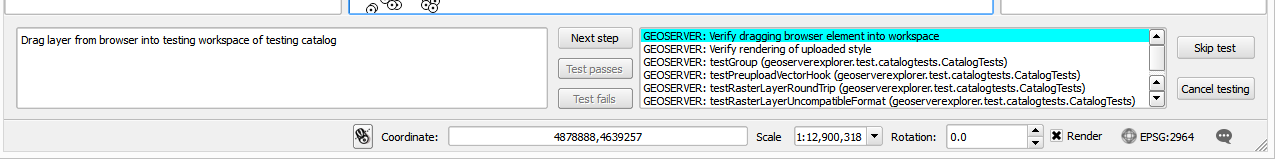
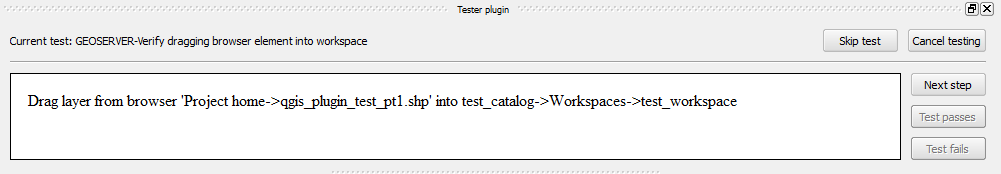
doc update

Changed region(s): [[0.0, 0.0, 1.0, 1.0], [0.3407, 0.7799, 0.5884, 0.805], [0.6194, 0.7799, 0.7123, 0.805]]

diff --git a/doc/usage.rst b/doc/usage.rst
@@ -17,26 +17,21 @@ A window will be shown with the available tests grouped in categories.
 
 Select the tests that you want to be executed and then click on run
 
-In the lower part of the QGIS window you will see the testing panel.
+In the upper part of the QGIS window you will see the testing panel.
 
-.. image:: testpanel.png
+.. image:: testpanel_upload_dragdrop.png
 	:align: center
 
-It has two parts: 
-
-* The right one contains a list of all the test to be run. The current test being executed is highlighted in blue. Tests that have already been executed are shown in red (if they failed), green (if they passed) or grey (if they were skipped)
-
-* The left one contains a description of the current step in the current test. If the step is automated (that is, if no user interaction is expected during this step), the panel in the left part is disabled. Otherwise, the panel will show a description of the task that the test expects you to perform.
+It has a single panel with a description of the current step in the current test. If the step is automated (that is, if no user interaction is expected during this step), the panel is disabled. Otherwise, the panel will show a description of the task that the test expects you to perform.
 
 
-All tests selected in the test selection dialog will be run sequentially. Tests can be of two types: automated and semi-automated. Each of them is described in the next sections, with indication about how to run the test in each case.
+All tests selected in the test selection dialog will be run sequentially. Tests can be of two types: automated and semi-automated. Each of them is described in the next sections, with indications about how to run the test in each case.
 
 Automated tests
 ----------------
 
 Automated tests have no user interaction. The tester plugin will take care of running the test and checking that the conditions defined to pass the test are met.
 
-Once the test has finished running, the plugin will set up the color of the test accordingly to indicate whether it passed or not, and start running the next test.
 
 
 Semi-automated tests
@@ -54,7 +49,7 @@ Here are a couple examples of suchs test, to help understand how the user should
 
 The two first steps are automated, so the user doesnt have to do anything. At the end of those steps, the project will have a vector layer with a symbology stored in the project, and a WMS layer with a symbology that is used client side.
 
-The thrid step is manual, and the test panel will show something like this.
+The third step is manual, and the test panel will show something like this.
 
 .. image:: testpanel_verify_rendering.png
 	:align: center
@@ -78,6 +73,8 @@ This is not the final step, so the "Test passes" and "Test fails" buttons are di
 
 The last step is automated. The plugin will decide if the test passes or not, by checking the layers in the catalog. The user interaction is not needed for that. Once checked, the plugin will move to the next test.
 
+Some tests might contain intermedate manual steps where something is to be verified by the user. In this case, the "Test passes" and "Test fails" button will be renamed to "Step passes" and "Step fails" and will be enabled. The "Next step" button will be disabled.
+
 Test report
 #############
 
@@ -90,3 +87,5 @@ For those tests that have not passed correctly (displayed in red), you can click
 
 .. image:: testresulttrace.png
 	:align: center
+
+Right-clicking on the test name in the list will open a context menu with a single menu entry: "Open issue page". Select it to open the corresponding issue page for the test, in case it has be defined. If no issue page has been defined for that test, the context menu will not be shown.

diff --git a/doc/writing_tests.rst b/doc/writing_tests.rst
@@ -12,29 +12,44 @@ Plugins can add their tests suite to this tester plugin by using the addTestModu
 
 In your plugin *__init__* method add something like this:
 
-        try:
-            from qgistester.tests import addTestModule
-            addTestModule(testmodule, "Name_of_my_plugin")
-        except:
-            pass
+::
+
+    try:
+        from qgistester.tests import addTestModule
+        addTestModule(testmodule, "Name_of_my_plugin")
+    except:
+        pass
 
 Unit Tests
 ***********
 
-Unit tests are created wrapping a python test suite. Create your test suite in the usual Python way and then return it from the *unitTests()* method
+Unit tests are created wrapping a python test suite. Create your test suite in the usual Python way and then return it from the *unitTests()* method.
+
+The test description shown in the test selector dialog is taken from the test's ``shortDescription()`` method, which takes the first line of the docstring, so if you want to add a name to your test, just add a one-line dosctring in it. If no docstring is present, the test method name is used.
 
 Functional Tests
 *****************
 
 Functional tests are defined using the *Test* class from the qgistester.test module. Here is an example of a test
 
-vectorRenderingTest = Test("Verify rendering of uploaded style")
-vectorRenderingTest.addStep("Preparing data", _openAndUpload)
-vectorRenderingTest.addStep("Check that WMS layer is correctly rendered")
-vectorRenderingTest.setCleanup(_clean)
+::
 
-To add a step to the test, the *addStep()* method is used. It accepts two parameters. The first one is mandatory and is a string with the description of the test. The second one is optional and should be a function. If this parameters is passed, the function will be executed at that step, and it will be an automated step. If no function is passed, the step will be considered a manual one. The description will be shown to the user and he will perform the step manually.
+	vectorRenderingTest = Test("Verify rendering of uploaded style")
+	vectorRenderingTest.addStep("Preparing data", _openAndUpload)
+	vectorRenderingTest.addStep("Check that WMS layer is correctly rendered")
+	vectorRenderingTest.setCleanup(_clean)
+
+To add a step to the test, the *addStep()* method is used. It accepts four parameters: ``description, function, prestep, isVerifyStep``.
+
+The first one is mandatory and is a string with the description of the test. The second one is optional and should be a function. If this parameters is passed, the function will be executed at that step, and it will be an automated step. If no function is passed, the step will be considered a manual one. The description will be shown to the user and he will perform the step manually.
+
+If once the manual step has been performed, the tester has to verify something, the ``isVerifyStep`` parameter should receive True. That will cause the "Step passes" and "Step fails" cuttons to be active, instead of the simple "Next step" one.
+
+If you require a prestep to be executed before actually entering this step, pass the corresponding function using the ``prestep`` parameters.
 
 You can add a cleanup task to be performed when the test is finished (or skipped), by using the *setCleanup()* method and passing a function where the cleanup is to be performed.
 
-See the *tests* folder to see the current tests and see how they are implemented.
+Issue URL
+*********
+
+You can define a issue URL for each test, using the ``Test.setIssueURL(url)`` method, in case you are using a testinbg platform to keep traack of test executions.
